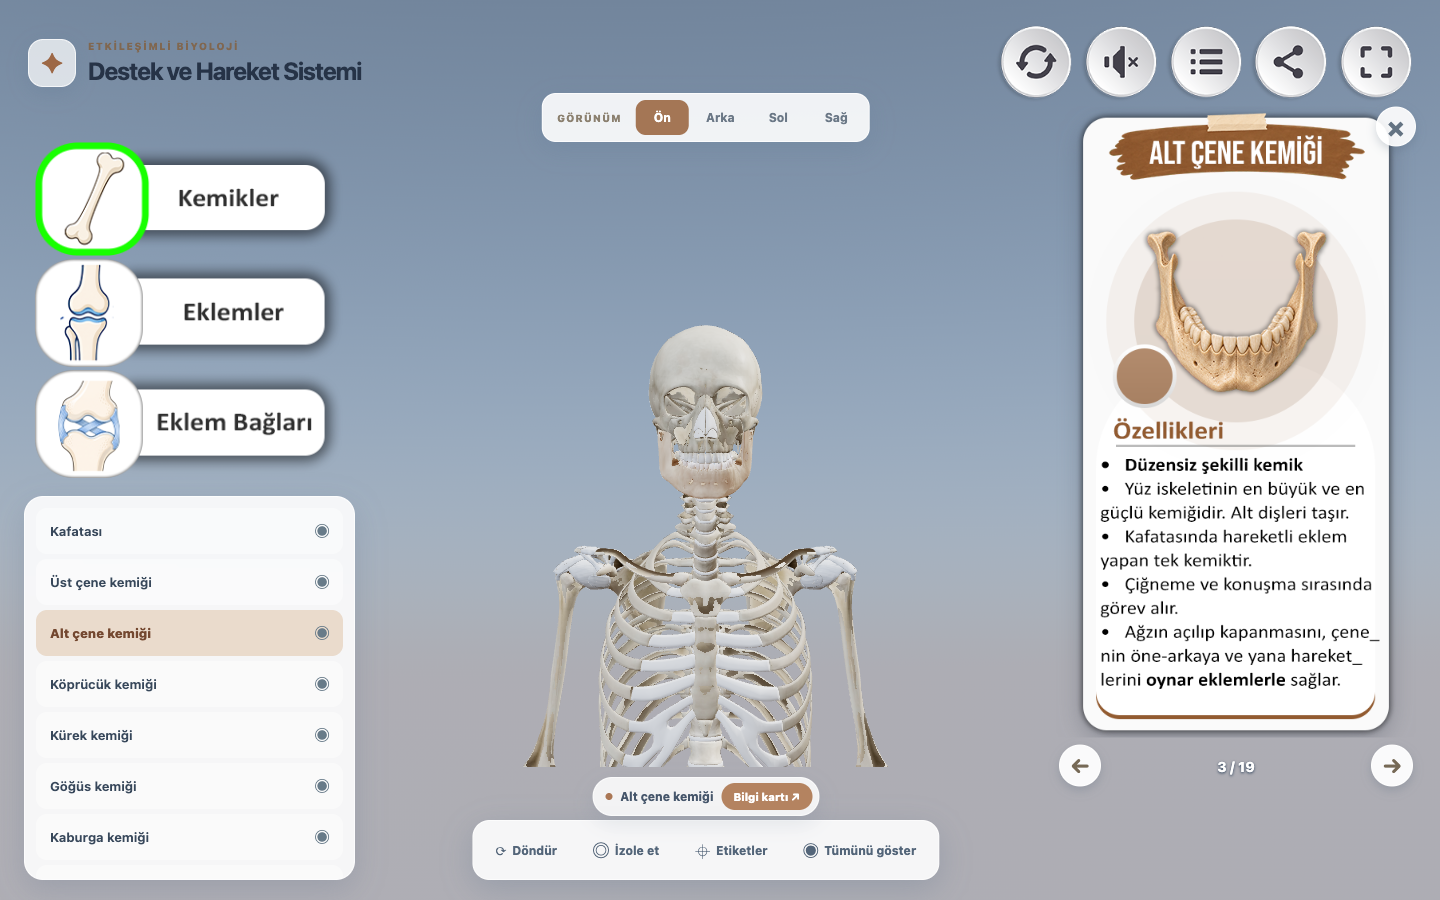
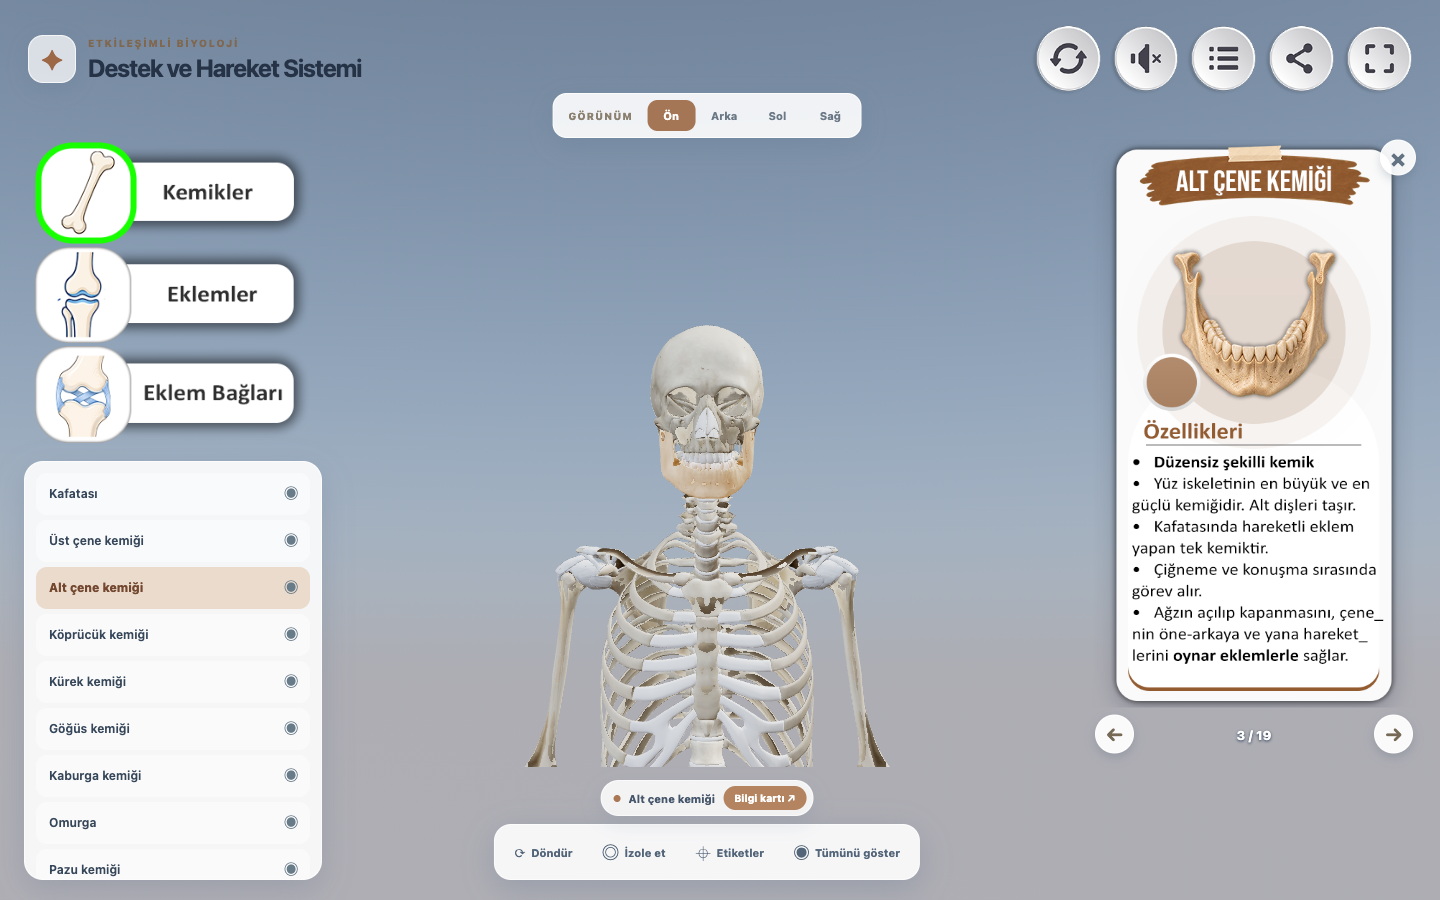
v4

diff --git a/styles.css b/styles.css
@@ -99,36 +99,36 @@ dialog{width:min(420px,calc(100vw - 28px));max-height:calc(100dvh - 28px);paddin
 
 /* Give the model its own viewport, clear of the controls and both side panels. */
 @media (min-width:761px) and (min-height:501px){
-  .app{--left-rail:clamp(280px,23vw,390px);--right-rail:clamp(305px,25vw,440px);--stage-left:calc(var(--left-rail) + 48px);--stage-right:calc(var(--right-rail) + 48px)}
+  .app{--left-rail:clamp(252px,20.7vw,351px);--right-rail:clamp(275px,22.5vw,396px);--stage-left:calc(var(--left-rail) + 48px);--stage-right:calc(var(--right-rail) + 48px)}
   #scene{inset:auto;top:151px;left:var(--stage-left);width:calc(100% - var(--stage-left) - var(--stage-right));height:calc(100% - 284px)}
   .sidebar{left:24px;width:var(--left-rail);bottom:20px}
   .sidebar .category-list{padding-bottom:18px}
   .sidebar .structure-list{padding:11px;overflow-y:auto;overscroll-behavior:contain}
-  .structure-row{grid-template-columns:1fr 38px;margin-bottom:5px}
-  .structure-select{min-height:46px;padding:9px 10px 9px 14px;font-size:13px}
-  .visibility-button{width:34px;height:34px;font-size:17px}
-  .info-panel{top:50%;right:24px;bottom:auto;width:var(--right-rail);max-height:calc(100dvh - 205px);transform:translateY(-50%)}
+  .structure-row{grid-template-columns:1fr 35px;margin-bottom:5px}
+  .structure-select{min-height:42px;padding:8px 9px 8px 13px;font-size:12px}
+  .visibility-button{width:32px;height:32px;font-size:16px}
+  .info-panel{top:50%;right:24px;bottom:auto;width:var(--right-rail);max-height:calc(90dvh - 185px);transform:translateY(-50%)}
   .info-head{top:0;right:0}
-  .card-content{max-height:calc(100dvh - 269px)}
-  .card-content img{max-height:calc(100dvh - 269px)}
-  .card-controls{min-height:52px;font-size:14px}
-  .card-controls button{width:42px;height:42px;font-size:22px}
-  .info-head button{width:40px;height:40px;font-size:27px}
+  .card-content{max-height:calc(90dvh - 242px)}
+  .card-content img{max-height:calc(90dvh - 242px)}
+  .card-controls{min-height:47px;font-size:13px}
+  .card-controls button{width:39px;height:39px;font-size:20px}
+  .info-head button{width:36px;height:36px;font-size:24px}
   .view-controls,.viewer-actions,.selection-chip{left:calc((100% + var(--stage-left) - var(--stage-right))/2)}
   .view-controls{top:93px;gap:5px;padding:6px}
-  .view-controls button{min-width:53px;padding:10px 12px;font-size:12px}
+  .view-controls button{min-width:48px;padding:9px 11px;font-size:11px}
   .viewer-actions{bottom:20px;gap:5px;padding:7px}
-  .viewer-actions button{min-height:44px;padding:0 15px}
-  .viewer-actions button span{font-size:12px}
-  .selection-chip{bottom:84px;min-height:39px;max-width:calc(100% - var(--stage-left) - var(--stage-right) + 24px);font-size:12px}
-  .selection-chip button{padding:7px 12px;font-size:11px}
-  .asset-action{width:clamp(58px,5.4vw,104px);height:clamp(58px,5.4vw,104px)}
+  .viewer-actions button{min-height:40px;padding:0 12px}
+  .viewer-actions button span{font-size:11px}
+  .selection-chip{bottom:84px;min-height:36px;max-width:calc(100% - var(--stage-left) - var(--stage-right) + 24px);font-size:11px}
+  .selection-chip button{padding:6px 11px;font-size:10px}
+  .asset-action{width:clamp(52px,4.9vw,94px);height:clamp(52px,4.9vw,94px)}
 }
 @media (min-width:761px) and (max-width:1100px) and (min-height:501px){
-  .app{--left-rail:clamp(230px,25vw,280px);--right-rail:clamp(240px,26vw,305px);--stage-left:calc(var(--left-rail) + 29px);--stage-right:calc(var(--right-rail) + 29px)}
+  .app{--left-rail:clamp(207px,22.5vw,252px);--right-rail:clamp(216px,23.4vw,275px);--stage-left:calc(var(--left-rail) + 29px);--stage-right:calc(var(--right-rail) + 29px)}
   .sidebar{left:12px}
   .info-panel{right:12px}
-  .asset-action{width:clamp(48px,5.3vw,61px);height:clamp(48px,5.3vw,61px)}
+  .asset-action{width:clamp(44px,4.8vw,55px);height:clamp(44px,4.8vw,55px)}
   .viewer-actions button{padding:0 9px}
 }
 @media (max-width:760px) and (orientation:portrait){

diff --git a/viewer.js b/viewer.js
@@ -71,6 +71,8 @@ camera.position.set(0, 0, 4);
 const structureObjects = new Map();
 const objectIds = new Map();
 const originalMaterials = new Map();
+const highlightMaterials = new Set();
+const highlightColor = new THREE.Color(0xffe3ab);
 const hiddenIds = new Set();
 let model = null;
 let modelBox = new THREE.Box3();
@@ -85,6 +87,7 @@ let cameraTween = null;
 let dragging = null;
 let toastTimer = null;
 let renderNeeded = true;
+let highlightUntil = 0;
 let soundEnabled = false;
 let audioContext = null;
 const reduceMotion = matchMedia("(prefers-reduced-motion: reduce)");
@@ -307,6 +310,7 @@ function selectItem(id, { open = true } = {}) {
 }
 
 function applyVisibility() {
+  highlightMaterials.clear();
   for (const item of items) {
     for (const mesh of structureObjects.get(item.id) || []) {
       mesh.visible = !hiddenIds.has(item.id) && (!isolated || selectedId === item.id);
@@ -319,13 +323,19 @@ function applyVisibility() {
       if (item.id === selectedId && mesh.visible) {
         const tint = material => {
           const clone = material.clone();
-          if (clone.emissive) { clone.emissive.setHex(0x996039); clone.emissiveIntensity = .25; }
+          if (clone.color) clone.color.lerp(highlightColor, .14);
+          if (clone.emissive) {
+            clone.emissive.setHex(0xb67b37);
+            clone.emissiveIntensity = .3;
+            highlightMaterials.add(clone);
+          }
           return clone;
         };
         mesh.material = Array.isArray(original) ? original.map(tint) : tint(original);
       }
     }
   }
+  highlightUntil = selectedId && highlightMaterials.size && !reduceMotion.matches ? performance.now() + 2400 : 0;
   updateLabels();
   renderNeeded = true;
 }
@@ -450,6 +460,15 @@ function resize() {
 
 function animate(now) {
   requestAnimationFrame(animate);
+  if (highlightUntil && now < highlightUntil) {
+    const glow = .29 + .11 * Math.sin(now * .009);
+    highlightMaterials.forEach(material => { material.emissiveIntensity = glow; });
+    renderNeeded = true;
+  } else if (highlightUntil) {
+    highlightMaterials.forEach(material => { material.emissiveIntensity = .3; });
+    highlightUntil = 0;
+    renderNeeded = true;
+  }
   if (cameraTween) {
     const t = Math.min(1, (now - cameraTween.start) / cameraTween.duration);
     const smooth = t * t * (3 - 2 * t);
